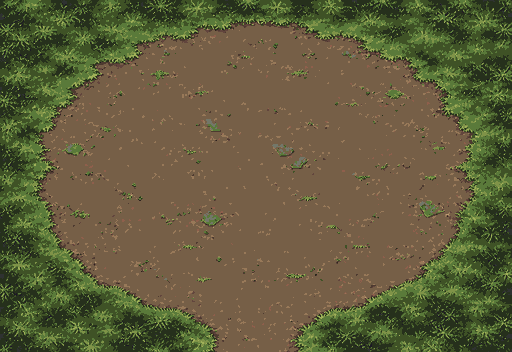
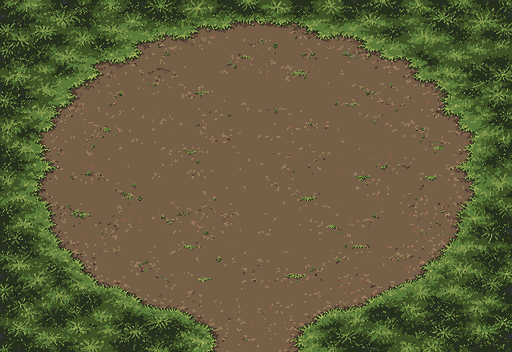
Hollow Trial: rune rocks ring the whole clearing at the floor's edge with their plants beside them; pasted slabs and moss patches painted out of the floor (done by Claude while Codex is out)

diff --git a/docs/STATUS.md b/docs/STATUS.md
@@ -1,3 +1,7 @@
+## Hollow Trial rim props re-placed and the floor cleaned (2026-10-31, Claude, done while Codex is out)
+
+From the owner's playtest ("props are not placed properly, don't align, don't match"). The eight rune rocks were spaced evenly across the upper half only, some pushed into the canopy, with none in the lower half. They now stand just inside the floor's edge all round the clearing: the top arc, the lower left and the lower right, clear of the big trees that own the left and right middle. The bushes, ferns and roots are grouped beside the rocks instead of standing alone. Moved in the editable scene (presentation/maps/hollow_trial_layered.tscn) and baked to data/scenes/hollow_trial_layered_props.json; trees, altar, chest and entry roots unchanged. The floor painting had six pasted slab pieces and two square moss patches; they are painted out by cloning nearby dirt (runtime ground and its native copy). Codex's audit pins are updated (APPROVAL.json notes the edit, not owner-approved yet). Core 568, map round trips, check_scene, check_gameplay, audit_scene and the smokes pass; captures in presentation/review/warden_v2/rim_props_*.png. Look is the owner's call.
+
 ## Runebound Warden playtest fixes and the altar's slabs (2026-10-31, Claude, done while Codex is out)
 
 From the owner's playtest. Warden (tools/art/rig_warden_v2.py): bigger motion everywhere: a stomping walk (legs swing from the hips, the body drops on each footfall, arms and head counter-swing), a breathing idle, wind-ups that lean back and strikes that lunge. The gaps between roots where the floor showed through are filled with dark crevice colour, and the feet are one shade darker where they touch the ground. Presentation: a wide contact shadow plus darker foot shadows; footfalls kick dust and leave prints. Each attack is drawn at its real hit size from the core telegraph: the Cleave as gold slash lines across the cone, the Lash as roots erupting along the line, the Ring as a shock band out to its edge, then torn ground after each strike. New particles for guard-hit chips, stagger and death dust. The old chest sprites sized for the 48x48 design are dropped (the shader rune lamp lights the chest). Cleave reach is unchanged (46); the first strike frame now swings down through the cone instead of reaching past it. Altar: owner turned down a full stone platform, so worn slabs and grass at the altar's foot instead (SpriteCook, 6 credits, 1 left; tools/art/make_trial_altar_base.py snaps it to Totoy 36 and strips the generated dirt under it). It follows the altar placement and also shows in the editable map view. Core 568, Python 94, smokes and both trial checks pass; captures in presentation/review/warden_v2/. Not done: lining up the rim props (rocks, bushes, trees). Feel is the owner's call.
